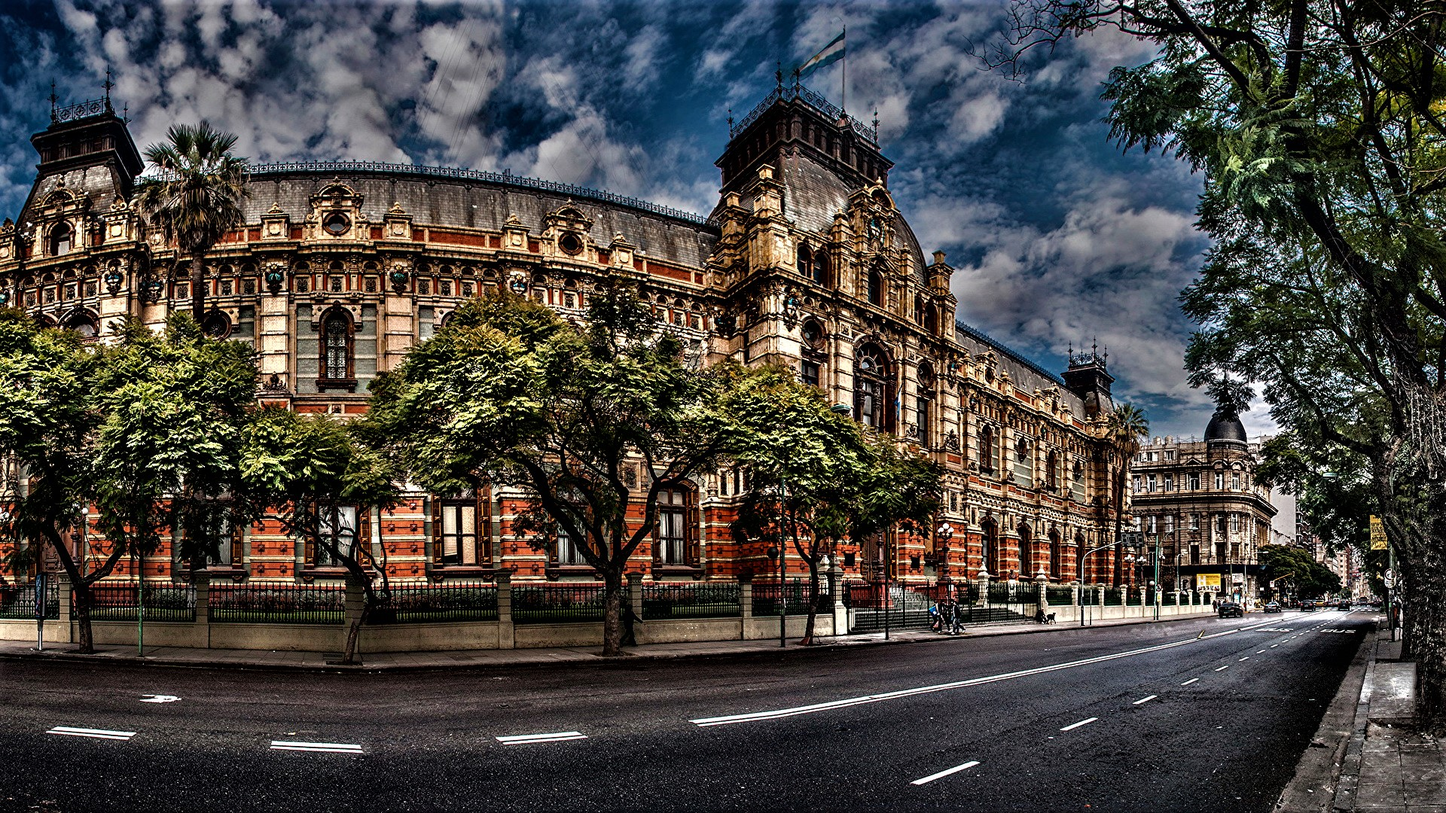
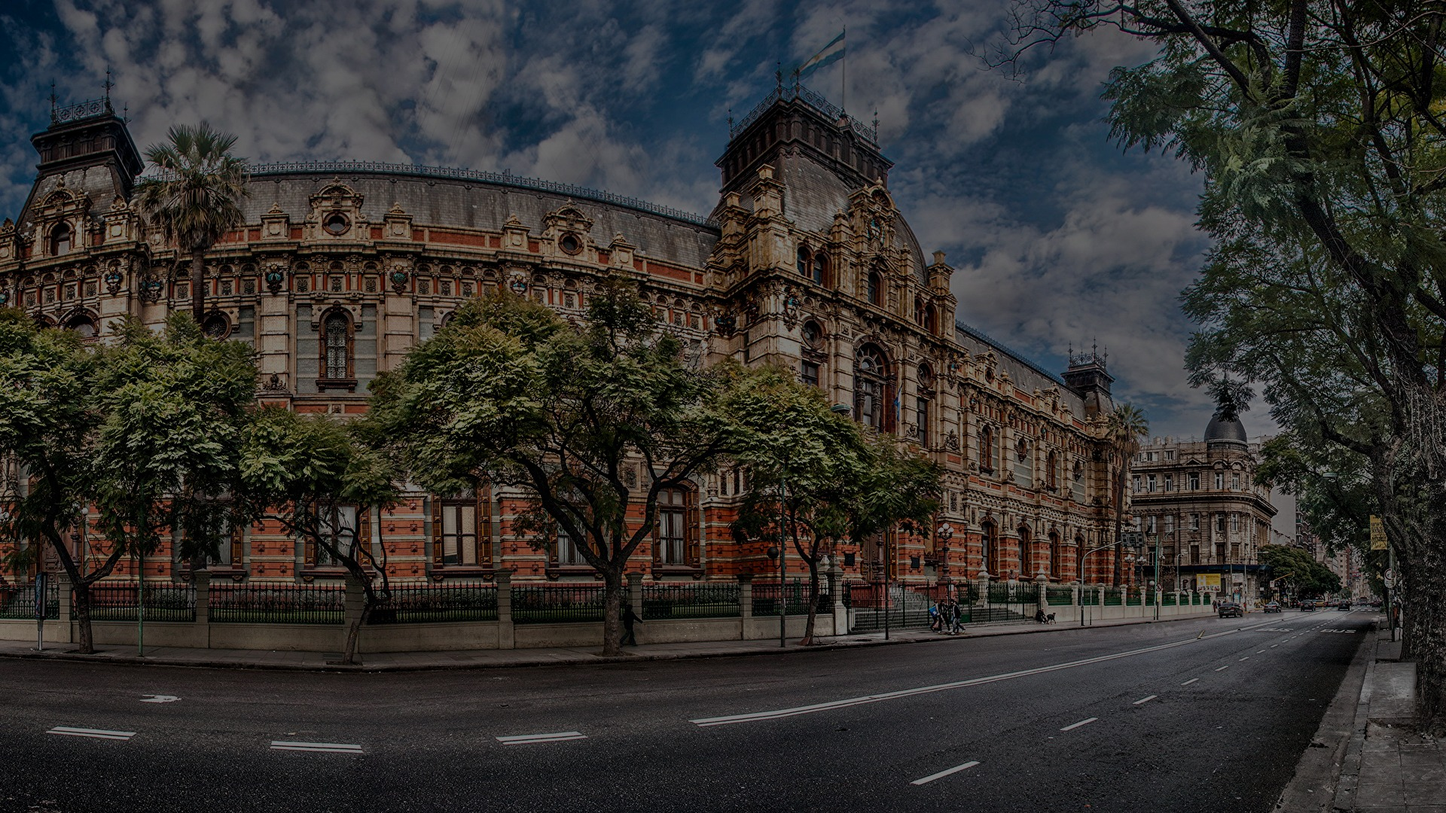
100

diff --git a/integrador copy.html b/integrador copy.html
@@ -2,7 +2,7 @@
 <html lang="en">
 
 <head>
-  <title>Integrador</title>
+  <title>Integrador Copy</title>
   <!-- Required meta tags -->
   <meta charset="utf-8">
   <meta name="viewport" content="width=device-width, initial-scale=1, shrink-to-fit=no">
@@ -11,7 +11,7 @@
   <link rel="stylesheet" href="https://cdn.jsdelivr.net/npm/bootstrap@5.2.0/dist/css/bootstrap.min.css"
     integrity="sha384-gH2yIJqKdNHPEq0n4Mqa/HGKIhSkIHeL5AyhkYV8i59U5AR6csBvApHHNl/vI1Bx" crossorigin="anonymous">
 
-    <link rel="stylesheet" href="CSS/integrador.css">
+    <link rel="stylesheet" href="CSS/integrador copy.css">
     
 </head>
 
@@ -46,7 +46,7 @@
   <main>
     
     <div class="bgAguas text-white">
-      <img src="imagenes_integrador_front/hawaiio.jpg" alt="hawaii" width="100%" height="70%">
+      
       <div class="container-fluid py-5">
         <h1 class="display-5 fw-bold texto1">Conf BsAs</h1>
       <div class="row">
@@ -118,23 +118,22 @@
       <h6>Anótate como orador para dar una charla ignite. Cuéntanos de qué quieres hablar!</h5>
         <form action="nuevoorador.html" method="get">
         <div class="row">
-          <div class="col-3"></div>
-          <div class="col-3">
+          <div class="col-md mb-3"></div>
+          <div class="col-md mb-3">
             <input type="text" name="nombre" id="nombre" class="form-control" placeholder="Nombre" required>
           </div>
-          <div class="col-3">
+          <div class="col-md mb-3">
             <input type="text" name="apellido" id="apellido" class="form-control" placeholder="Apellido" required>
           </div> 
-          <div class="col-3"></div>
-        </div>
-        <br> 
+          <div class="col-md mb-3"></div>
+        </div> 
         <div class="row">
-          <div class="col-3"></div>
-          <div class="col-6">
+          <div class="col-md mb-3"></div>
+          <div class="col-md mb-6">
             <textarea name="asunto" id="asunto" class="form-control textareaa" placeholder="Sobre qué quieres hablar?" required></textarea>
           <p class="mini">Recuerada incluir un título para tu charla</p>
           </div>
-          <div class="col-3"></div>
+          <div class="col-md mb-3"></div>
         </div>
         <br>
         <div class="row">

diff --git a/CSS/integrador copy.css b/CSS/integrador copy.css
@@ -25,8 +25,8 @@ a{
 }
 
 .bgAguas{
-    position:relative;
-    display: inline-block;
+    background-image: linear-gradient(rgba(0, 0, 0, 0.5), rgba(0, 0, 0, 0.5)), url("hawaii.jpg");
+     
     
 }
 
@@ -165,11 +165,10 @@ a{
 }
 
 .textareaa{
-    width: 100%;
+    width: 150%;
     height: 100%;
     padding: 0%;
     margin: 0%;
-    
 }
 
 .mini{
